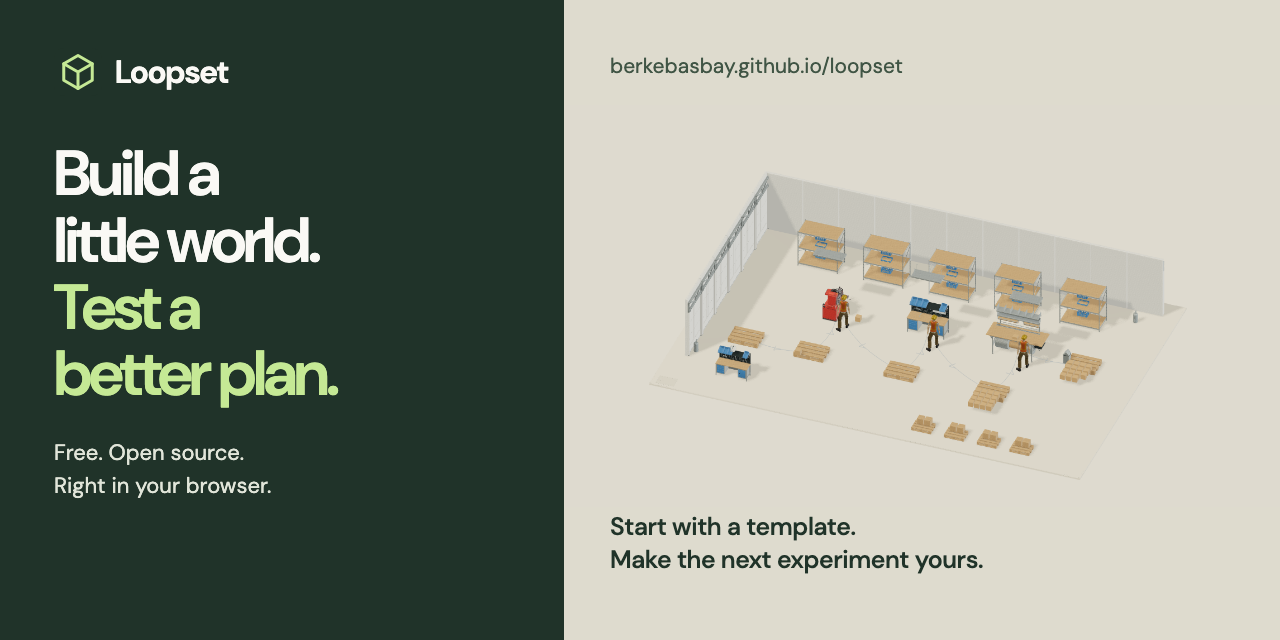
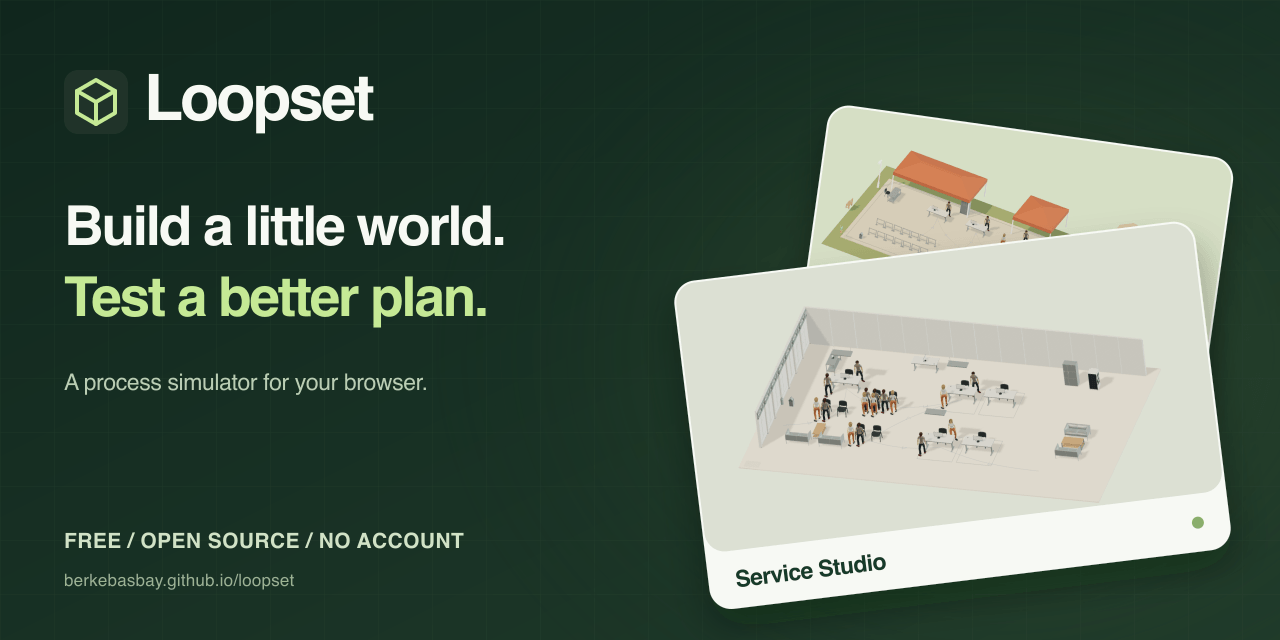
Simplify the README and refresh repository artwork

diff --git a/README.md b/README.md
@@ -1,114 +1,62 @@
-# Loopset
+<p align="center">
+  <img src="docs/media/readme-hero.png" alt="Loopset — Build a little world. Test a better plan." width="100%">
+</p>
 
-**Build a little world. Test a better plan.**
+<p align="center">
+  <a href="https://berkebasbay.github.io/loopset/"><img src="https://img.shields.io/badge/Free%20to%20use-173a2c?style=for-the-badge" alt="Free to use"></a>
+  <a href="https://berkebasbay.github.io/loopset/"><img src="https://img.shields.io/badge/No%20account-173a2c?style=for-the-badge" alt="No account required"></a>
+  <a href="LICENSE"><img src="https://img.shields.io/badge/Code%20license-MIT-173a2c?style=for-the-badge&labelColor=294b37" alt="Code license: MIT"></a>
+</p>
 
-Loopset is a free, open-source process and capacity simulator that runs in your browser. Build a facility, change demand or staffing, and compare completed work, waiting time and resource cost before choosing a plan.
+<p align="center">
+  <strong><a href="https://berkebasbay.github.io/loopset/">Try Loopset →</a></strong> ·
+  <a href="docs/QUICKSTART.md">Quickstart</a> ·
+  <a href="CONTRIBUTING.md">Contribute</a>
+</p>
 
-**[Try the live app →](https://berkebasbay.github.io/loopset/)** · **[Watch the 30-second tour](https://berkebasbay.github.io/loopset/watch/#short)** · **[Watch the 55-second walkthrough](https://berkebasbay.github.io/loopset/watch/#full)**
+Loopset lets you build a small factory, service team or event, then see how a different plan affects queues, waiting and cost. It runs in your browser, with no installation or account.
 
-[![Service Studio in Loopset: specialists, waiting requests and a running process](public/media/loopset-demo.jpg)](https://berkebasbay.github.io/loopset/watch/#full)
+## See it in action
 
-**12 editable templates · 24 prepared alternatives · 1,141 browser-ready 3D models**
+[Watch the 30-second demo](https://berkebasbay.github.io/loopset/watch/#short)
 
-No account, installation, API key or simulation backend. Calculations run locally, and project files stay on your device. Start from a template or a genuinely empty site, then save your own reusable starting points.
+<sub>30-second tour · <a href="https://berkebasbay.github.io/loopset/watch/#full">Full 55-second walkthrough</a> · <a href="docs/media/README.md">Video credits</a></sub>
 
-## Compare the trade-off
+## Build. Run. Compare.
 
-In the included synthetic **Service Studio**, the Specialists and Resolution steps share the same team. Increasing the shared team from two to three available units produces this comparison:
+- **Build your world.** Choose one of 12 templates or start with an empty site. Drag in equipment, shelves and work areas from 1,141 ready-to-use 3D models.
+- **Try a different plan.** Change arrivals, processing time or staffing. Run it and compare completed work, waiting and resource cost.
+- **Make it yours.** Save your project, keep alternatives, or turn your setup into a reusable template.
 
-| Recorded outcome | Original plan · 2 units | Changed plan · 3 units |
-| --- | ---: | ---: |
-| Completed requests | 66 | 86 |
-| Average waiting time | 9.5 min | 5.2 min |
-| Modeled resource cost | $85 | $115 |
+### Pick a place to start
 
-The videos show the real edit, **Run & compare**, and the resulting table. Both plans use the same 106 arrivals, one-hour duration and seed 4207. Station counts and the break calendar stay unchanged. These are rounded results from one synthetic case, not a forecast or a promise of savings; resource cost is not total business cost.
+| Service Studio | Festival Gate | Little Factory |
+| :---: | :---: | :---: |
+| <img src="public/previews/templates/service.png" alt="Service Studio: a team sharing specialist capacity" width="260"> | <img src="public/previews/templates/festival.png" alt="Festival Gate: visitors moving through entrance queues" width="260"> | <img src="public/previews/templates/factory.png" alt="Little Factory: machining, inspection and packing" width="260"> |
+| Teams & waiting | Arrivals & queues | Production & capacity |
 
-| Video | Watch online | Repository file |
-| --- | --- | --- |
-| Quick tour · 30 seconds | [Watch](https://berkebasbay.github.io/loopset/watch/#short) | [English MP4](public/media/loopset-demo-short.mp4) |
-| Full walkthrough · 55 seconds | [Watch](https://berkebasbay.github.io/loopset/watch/#full) | [English MP4](public/media/loopset-demo.mp4) |
+[Explore all templates →](docs/TEMPLATES.md)
 
-Both videos include English screen text, music and effects. The [watch page](https://berkebasbay.github.io/loopset/watch/) includes captions and a text walkthrough. See the [media notes](docs/media/README.md) for sources and recording scope.
+<details>
+<summary><strong>Run locally & develop</strong></summary>
 
-## Your first experiment
-
-1. Open **Templates → Service Studio** and review its **Project brief**.
-2. In **Define process**, select **Specialists**. In **Properties**, change the shared team's **Base available units** from 2 to 3.
-3. Choose **Run & compare**. Read completed work, waiting and cost together.
-4. Save an alternative or use **Download project JSON** to keep an editable copy. **Save as template** makes a reusable starting point in this browser.
-
-For your own layout, choose **Blank** or **Empty site**, place objects, and use **Start a process** when you are ready to simulate. [Follow the quickstart →](docs/QUICKSTART.md)
-
-## Start with a question
-
-| Template | Explore |
-| --- | --- |
-| **Service Studio** | How do priority requests and multiple stages compete for shared specialists? |
-| **Festival Gate** | What happens to queues when arrivals come in waves and visitors have limited patience? |
-| **Little Factory** | Where does work accumulate across machining, inspection and packing? |
-| **Workshop and eight more starters** | Shared work cells, machining, rework, 3D printing, packing, fulfillment, returns, parcel handling and repairs. |
-
-Each starter has an original plan and two prepared alternatives, with editable assumptions and real scene previews. Apply an alternative, calculate it, compare it, or undo it. All examples use synthetic data and the same discrete-event engine. [Browse the template guide →](docs/TEMPLATES.md)
-
-## Build, model and compare
-
-- **Build the facility.** Search the 3D library and drag equipment, shelves, containers and building parts into place. Models load when used; repeated placements share geometry. Layout, elevation, rotation and scale are editable.
-- **Define the process.** Connect arrivals, queues, processing steps, routes, delays and exits. Model time distributions, arrival waves, priorities, patience and finite waiting space. Copy steps and edit compatible groups with Undo/Redo.
-- **Keep capacity explicit.** Parallel stations, shared resources, installed limits and shifts are separate controls. An extra workstation does not automatically add a worker.
-- **Test alternatives.** Run independent replications, matched-input comparisons or a finite capacity search with separate verification runs. Inspect waiting distributions, unfinished work, cost and observed bottleneck candidates.
-- **Keep and share your work.** Save projects and personal templates locally. Transfer editable project JSON; export results as JSON, CSV, PNG or HTML, or use print/PDF. Imported data is reviewed before it changes a model.
-
-The workspace separates **Build facility**, **Define process** and **Review results**. A searchable Steps list, complete DOM model editor, keyboard controls and reduced-motion options provide alternatives to manipulating the 3D scene. [Read the workspace guide →](docs/UX_GUIDE.md)
-
-## Run locally
-
-Use **Node.js 24** and npm:
+Use Node.js 24 and npm:
 
 ```sh
 npm ci
 npm run dev
 ```
 
-Open the local address printed by Vite. No credentials or application-server setup are required. `npm run build` produces the static app; `npm run preview` serves that build locally.
+Open the local address printed by Vite. No API keys or backend setup.
 
-The engine also works without the interface:
+The engine also runs without the interface. See the [Engine API](docs/API.md), [model guide](docs/MODEL_GUIDE.md), and [contribution guide](CONTRIBUTING.md).
 
-```sh
-npm run build:engine
-npm run simulate -- --example service --seed 4207
-npm run simulate -- examples/factory.json
-```
+</details>
 
-Results retain their input snapshot, seed, engine/RNG identity and calculation limits. [Use the headless API →](docs/API.md)
+## Help build Loopset
 
-## What the simulation represents
+New templates, clearer guides, accessible interactions and focused bug fixes are welcome. [Open an issue](https://github.com/berkebasbay/loopset/issues/new/choose) or [send a pull request](CONTRIBUTING.md).
 
-The miniature world illustrates a process. Walking, scenery, camera position and replay speed do not change numerical outcomes or add physical travel time. A 3D machine model does not supply measured processing times, collision physics, CAD analysis or inventory-assembly behavior.
+---
 
-Synthetic examples are not calibrated business forecasts. A single run does not establish statistical confidence; repeated experiments help examine uncertainty. Incomplete calculations and limited replay remain explicitly identified.
-
-Browser storage belongs to the current site address and browser. Download project JSON backups to transfer work or protect it from cleared storage.
-
-## Documentation
-
-[Quickstart](docs/QUICKSTART.md) · [Templates](docs/TEMPLATES.md) · [Facility guide](docs/FACILITY_GUIDE.md) · [Workspace guide](docs/UX_GUIDE.md) · [Model contract](docs/MODEL_GUIDE.md) · [Engine API](docs/API.md) · [Examples](examples/README.md) · [Testing](docs/QUALITY.md) · [Static hosting](docs/DEPLOYMENT.md)
-
-## Contribute
-
-Useful contributions include a template with a clear process question, a focused bug fix, an accessible editing improvement, a clearer guide or an independently reasoned engine test.
-
-[Open an issue](https://github.com/berkebasbay/loopset/issues/new/choose) with a small synthetic example, or propose a focused pull request. For larger changes, discuss the problem and scope first. [CONTRIBUTING.md](CONTRIBUTING.md) covers setup, model boundaries and the required checks. Pull requests are welcome and reviewed for correctness, usability and maintainability.
-
-```sh
-npm run typecheck
-npm test -- --maxWorkers=1
-npm run build
-npm run test:headless
-```
-
-Report vulnerabilities through [SECURITY.md](SECURITY.md).
-
-## License and credits
-
-Original Loopset code is [MIT licensed](LICENSE). Third-party models, textures, fonts, music and effects retain their own terms; they are not all MIT. See [third-party notices](THIRD_PARTY_NOTICES.md), [NVIDIA asset sources and adaptations](docs/NVIDIA_ASSETS.md), and [demo media credits](docs/media/README.md).
+<sub>The 3D scene illustrates your process model; walking and layout do not change the calculation. Examples use synthetic data. <a href="docs/MODEL_GUIDE.md">Modeling scope</a> · Original code: <a href="LICENSE">MIT</a>. Artwork, fonts and media retain their <a href="THIRD_PARTY_NOTICES.md">own licenses</a>.</sub>

diff --git a/docs/media/README.md b/docs/media/README.md
@@ -23,3 +23,7 @@ Stock music and effects are incorporated into the films; their standalone source
 The PNG screenshots in this directory document the RC14 workspace, template gallery and recorded-result surfaces. `loopset-facility.png` uses the enhanced Little Factory layout; its source is [`examples/facility.json`](../../examples/facility.json). `loopset-compare.png` shows that Factory's separate station/team experiment, 40 → 77 completed orders; it is not the Service Studio comparison in the current films.
 
 `public/previews/templates/` contains the twelve starter scene previews. All models and examples shown are synthetic. Original browser captures omit local-origin footers. NVIDIA CC BY 4.0 models, Quaternius/Poly Haven CC0 material and fonts retain the creator/source/license records linked above.
+
+## Repository artwork
+
+`readme-hero.png` and the site social card combine the Loopset cube mark, DM Sans and real Service Studio/Festival Gate starter previews. They use the same source artwork and credits listed above; the cards are editorial layouts, not additional product controls.
